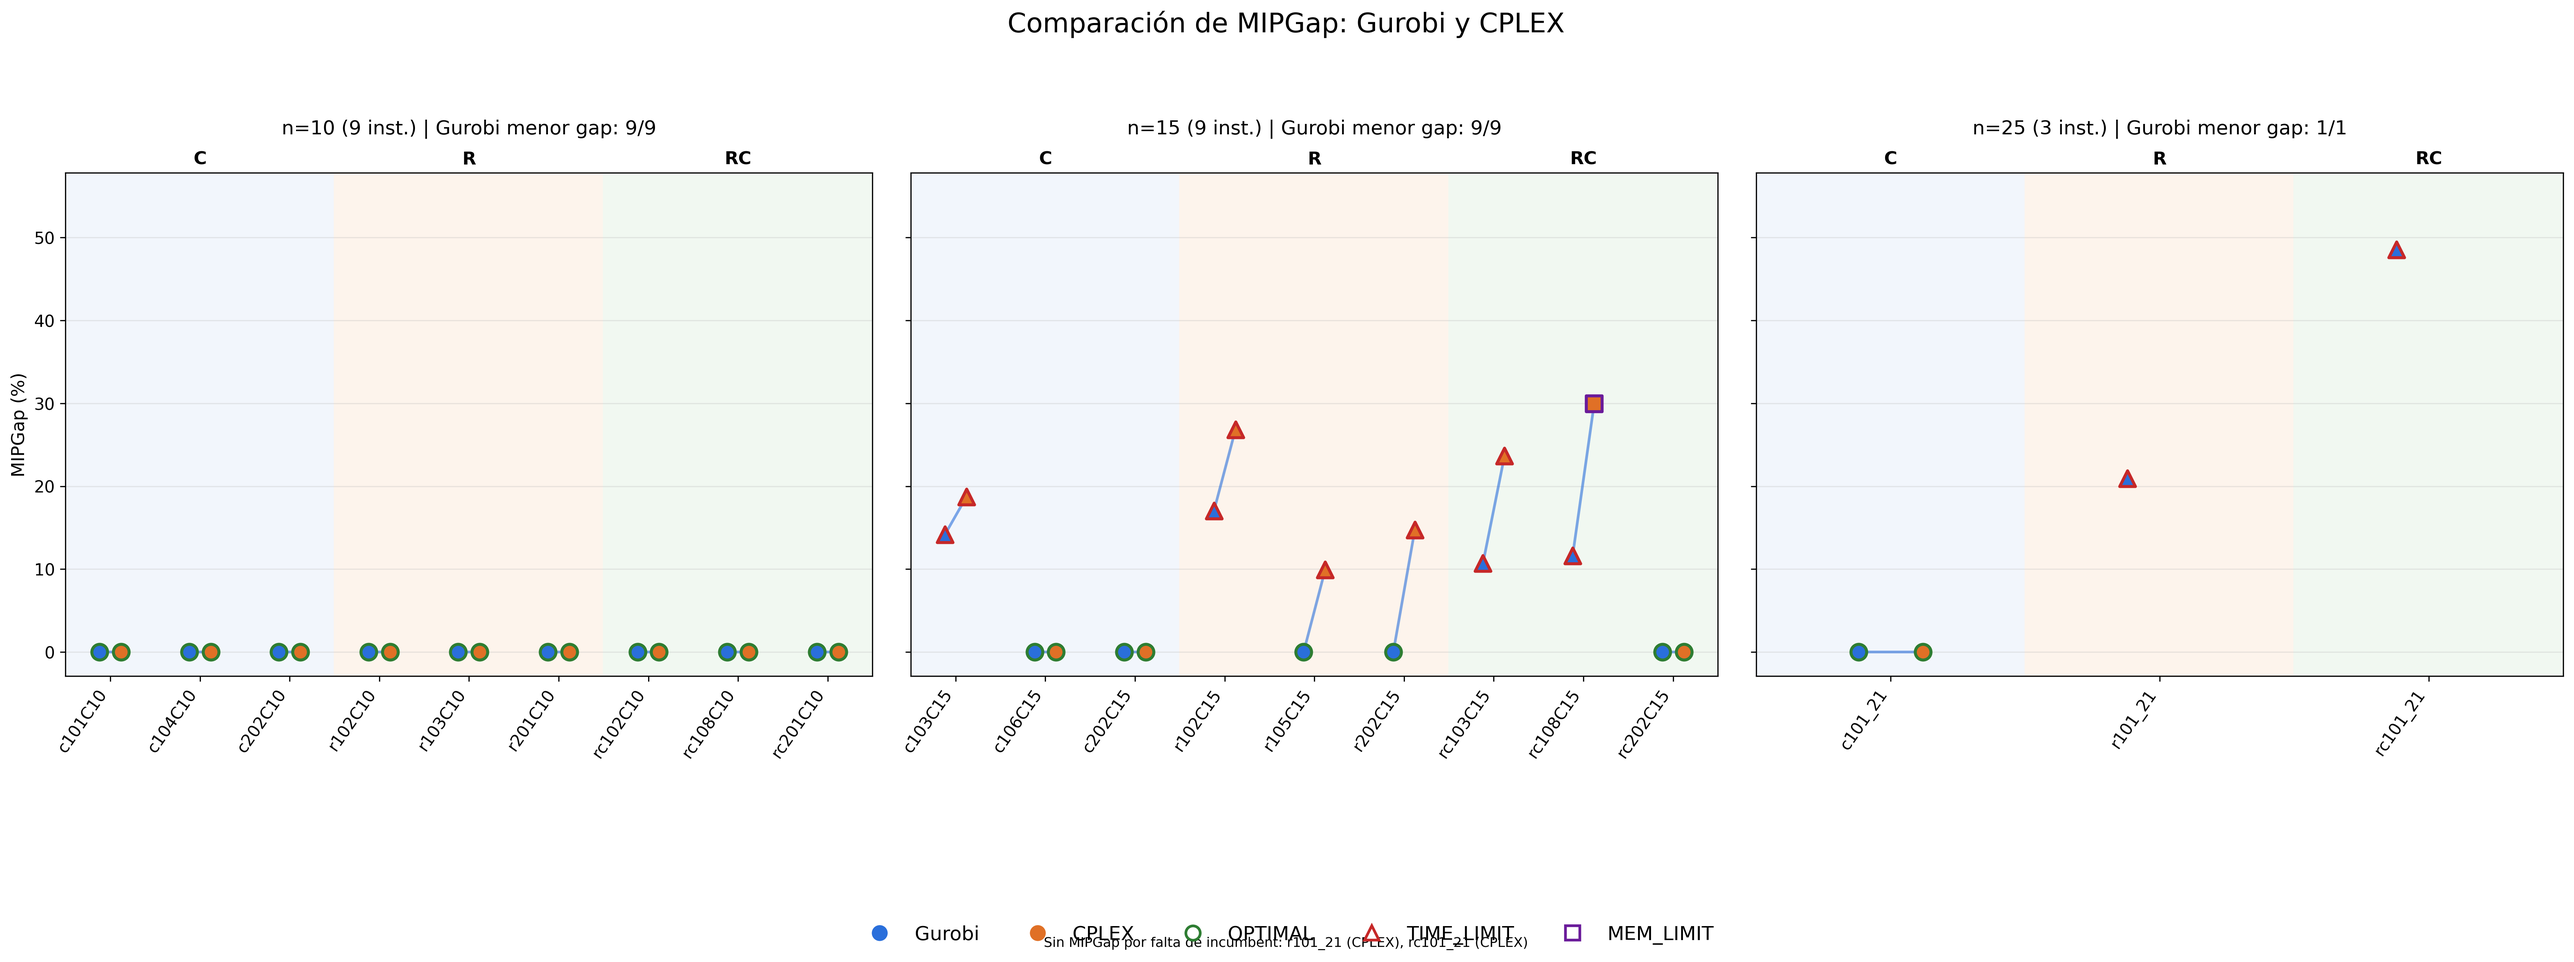
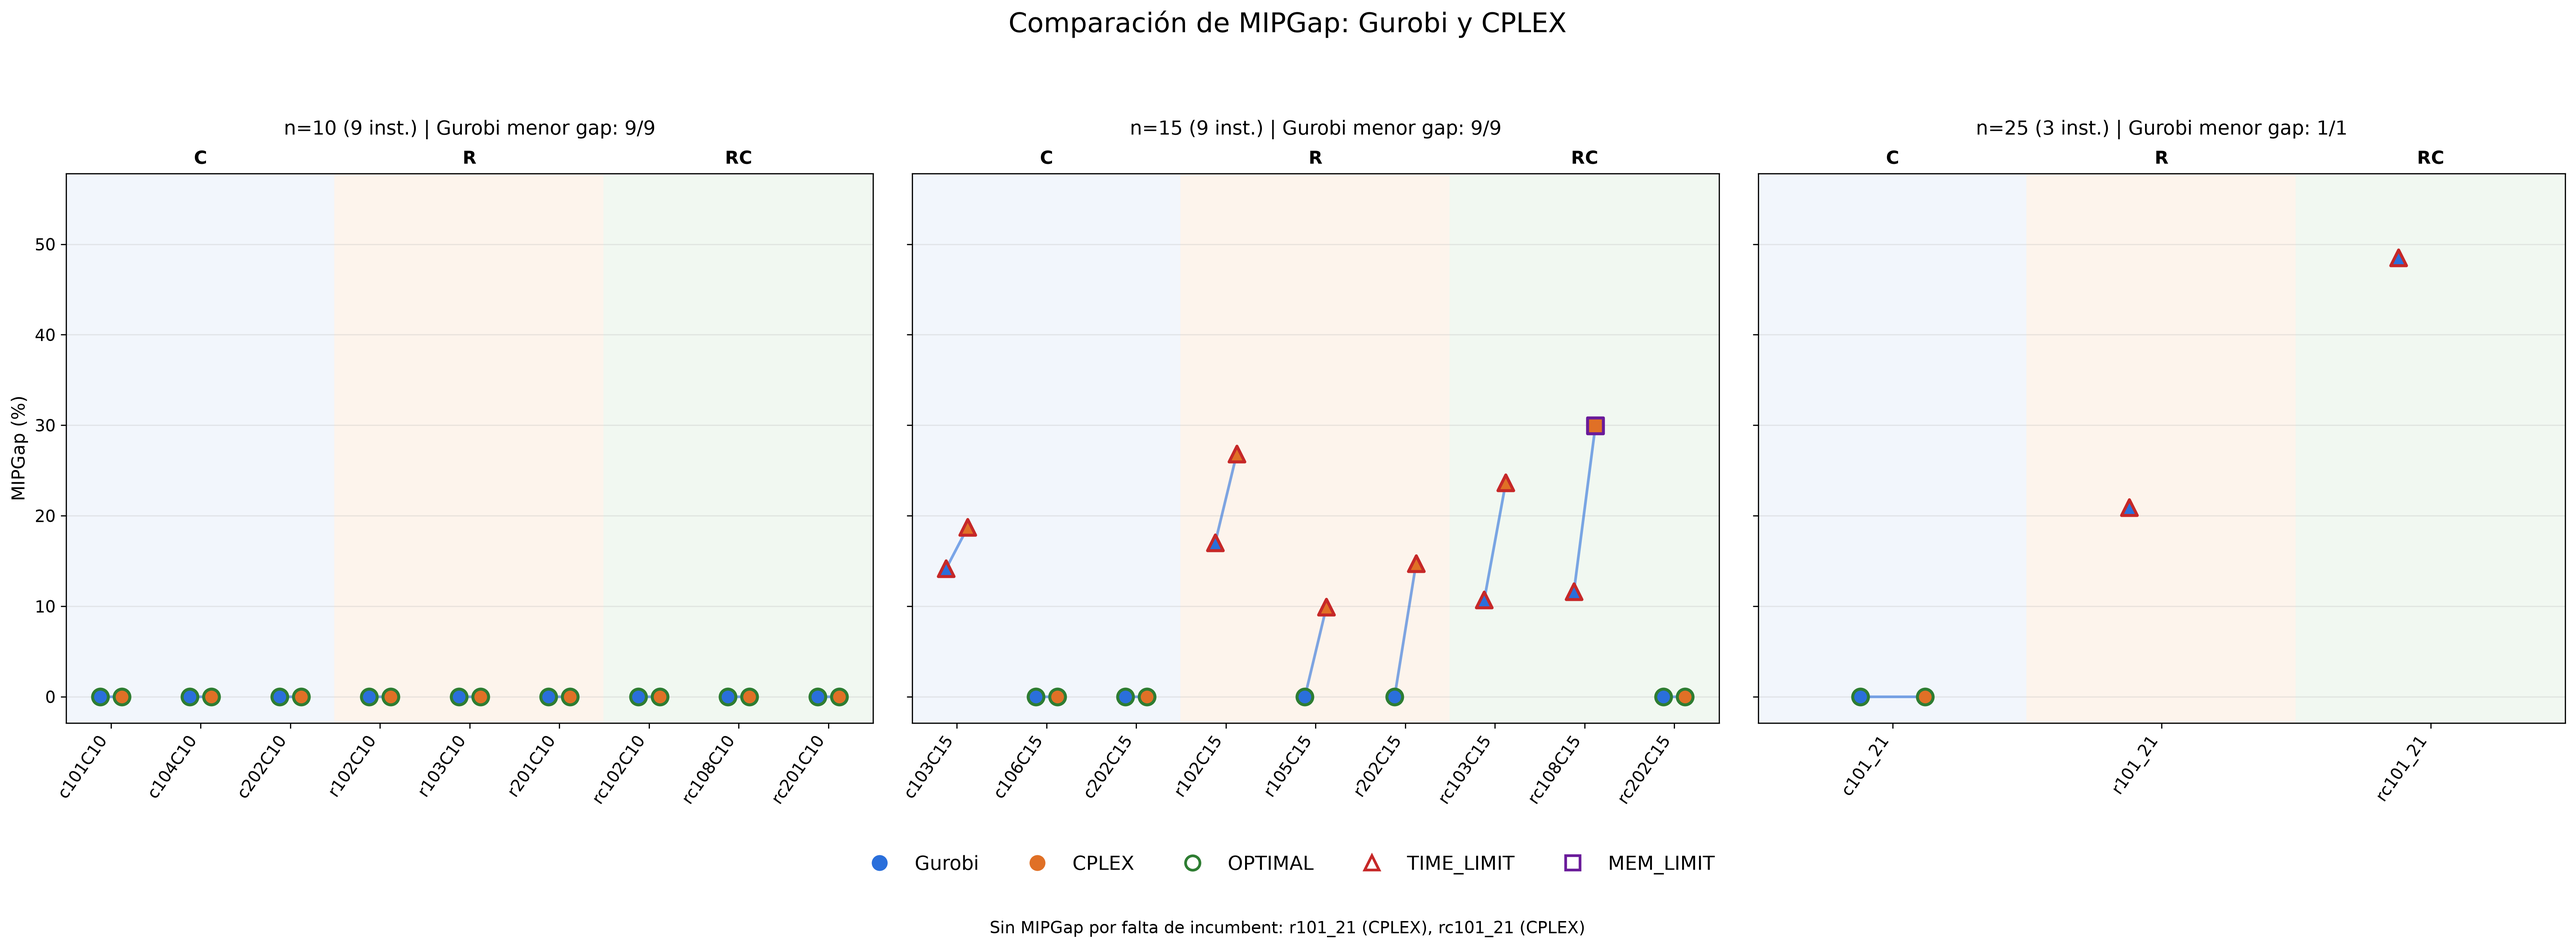
nuevos graficos y cambios en grafico mipgap

diff --git a/src/visualize.py b/src/visualize.py
@@ -2,6 +2,7 @@ from __future__ import annotations
 
 import json
 from pathlib import Path
+from textwrap import fill
 
 import matplotlib.pyplot as plt
 from matplotlib.transforms import Bbox
@@ -15,16 +16,18 @@ from validator import validate_solution
 
 ROOT = Path(__file__).resolve().parents[1]
 
-INSTANCE_FILE = ROOT / "data" / "c101C10.txt"
+# Caso ilustrativo: familia mixta, 15 clientes, 2 rutas y 6 recargas;
+# ambos solvers certificaron el óptimo en el benchmark.
+INSTANCE_FILE = ROOT / "data" / "rc202C15.txt"
 
 RESULT_FILE = (
-    ROOT / "results" / "benchmark_json" / "gurobi_c101C10_n10.json"
+    ROOT / "results" / "benchmark_json" / "gurobi_rc202C15_n15.json"
 )
 OUTPUT_FILE = (
-    ROOT / "results" / "figuras" / "mapa_rutas_c101C10_gurobi.png"
+    ROOT / "results" / "figuras" / "mapa_rutas_rc202C15_gurobi.png"
 )
 SOC_OUTPUT_FILE = (
-    ROOT / "results" / "figuras" / "perfil_soc_c101C10_gurobi.png"
+    ROOT / "results" / "figuras" / "perfil_soc_rc202C15_gurobi.png"
 )
 
 CSV_FILE = ROOT / "results" / "comparacion_solvers.csv"
@@ -56,7 +59,7 @@ def obtener_coordenadas(data: dict, node_id: int) -> tuple[float, float]:
     return float(node["x"]), float(node["y"])
 
 
-def separar_etiquetas_clientes(etiquetas: list, puntos: list, ax) -> None:
+def separar_etiquetas_nodos(etiquetas: list, puntos: list, ax) -> None:
     """Reubica etiquetas cercanas sin modificar las coordenadas de los nodos."""
     fig = ax.figure
     fig.canvas.draw()
@@ -179,13 +182,13 @@ def graficar_mapa_rutas(data: dict, result: dict, output_file: Path) -> None:
     nodes = data["nodes"]
 
     # Dibuja los clientes
-    etiquetas_clientes = []
-    puntos_clientes = []
+    etiquetas_nodos = []
+    puntos_nodos = []
 
     for node_id in data["V_C"]:
         node = nodes[node_id]
         punto = (node["x"], node["y"])
-        puntos_clientes.append(punto)
+        puntos_nodos.append(punto)
         ax.scatter(
             node["x"],
             node["y"],
@@ -219,7 +222,7 @@ def graficar_mapa_rutas(data: dict, result: dict, output_file: Path) -> None:
                 "pad": 1,
             },
         )
-        etiquetas_clientes.append(etiqueta)
+        etiquetas_nodos.append(etiqueta)
 
     # Agrupa las copias de una misma estación para dibujarla una sola vez
     estaciones = {}
@@ -255,7 +258,7 @@ def graficar_mapa_rutas(data: dict, result: dict, output_file: Path) -> None:
         )
 
         if not comparte_deposito:
-            ax.annotate(
+            etiqueta = ax.annotate(
                 nombre,
                 (node["x"], node["y"]),
                 xytext=(5, -12),
@@ -263,6 +266,8 @@ def graficar_mapa_rutas(data: dict, result: dict, output_file: Path) -> None:
                 fontsize=8,
                 zorder=6,
             )
+            etiquetas_nodos.append(etiqueta)
+            puntos_nodos.append((node["x"], node["y"]))
 
     # Dibuja el depósito al final para que destaque si comparte coordenadas
     ax.scatter(
@@ -275,7 +280,7 @@ def graficar_mapa_rutas(data: dict, result: dict, output_file: Path) -> None:
         linewidths=1,
         zorder=7,
     )
-    ax.annotate(
+    etiqueta = ax.annotate(
         "Depósito",
         (deposito["x"], deposito["y"]),
         xytext=(8, -15),
@@ -284,6 +289,8 @@ def graficar_mapa_rutas(data: dict, result: dict, output_file: Path) -> None:
         fontweight="bold",
         zorder=8,
     )
+    etiquetas_nodos.append(etiqueta)
+    puntos_nodos.append((deposito["x"], deposito["y"]))
 
     # Leyenda: tipos de nodo y vehículos
     leyenda = [
@@ -358,7 +365,7 @@ def graficar_mapa_rutas(data: dict, result: dict, output_file: Path) -> None:
 
     fig.tight_layout(rect=[0, 0.08, 1, 0.91])
 
-    separar_etiquetas_clientes(etiquetas_clientes, puntos_clientes, ax)
+    separar_etiquetas_nodos(etiquetas_nodos, puntos_nodos, ax)
 
     output_file.parent.mkdir(parents=True, exist_ok=True)
     fig.savefig(output_file, dpi=300, bbox_inches="tight")
@@ -491,7 +498,12 @@ def graficar_bateria_soc(data: dict, result: dict, output_file: Path) -> None:
         ),
     ]
 
-    fig.suptitle("Evolución del estado de carga de la batería", fontsize=14)
+    fig.suptitle(
+        f"Evolución del estado de carga de la batería\n"
+        f"{result['instance']} - {result['solver']} | "
+        f"{result['n_customers']} clientes",
+        fontsize=14,
+    )
     fig.legend(handles=leyenda, loc="lower center", ncol=2, frameon=False)
     fig.tight_layout(rect=[0, 0.08, 1, 0.94])
 
@@ -891,23 +903,26 @@ def graficar_mipgap(csv_path: Path, output_file: Path) -> None:
     ]
 
     fig.suptitle("Comparación de MIPGap: Gurobi y CPLEX", fontsize=18)
+    # Reserva filas distintas para leyenda y nota, fuera de los ejes.
+    nota = fill(
+        "Sin MIPGap por falta de incumbent: " + ", ".join(gaps_sin_incumbent),
+        width=140,
+    ) if gaps_sin_incumbent else ""
+    alto_nota = (len(nota.splitlines()) * 14 / 72 / fig.get_figheight())
+    base_leyenda = 0.025 + alto_nota + (0.025 if nota else 0)
     fig.legend(
         handles=leyenda_solver + leyenda_estado,
         loc="lower center",
+        bbox_to_anchor=(0.5, base_leyenda),
         ncol=5,
         frameon=False,
         fontsize=13,
         markerscale=1.6,
     )
 
-    if gaps_sin_incumbent:
-        nota = "Sin MIPGap por falta de incumbent: " + ", ".join(
-            gaps_sin_incumbent
-        )
-        fig.text(0.5, 0.015, nota, ha="center", fontsize=9)
-        fig.tight_layout(rect=[0, 0.19, 1, 0.93])
-    else:
-        fig.tight_layout(rect=[0, 0.12, 1, 0.93])
+    if nota:
+        fig.text(0.5, 0.025, nota, ha="center", va="bottom", fontsize=11)
+    fig.tight_layout(rect=[0, base_leyenda + 0.07, 1, 0.93])
 
     output_file.parent.mkdir(parents=True, exist_ok=True)
     fig.savefig(output_file, dpi=300, bbox_inches="tight")
